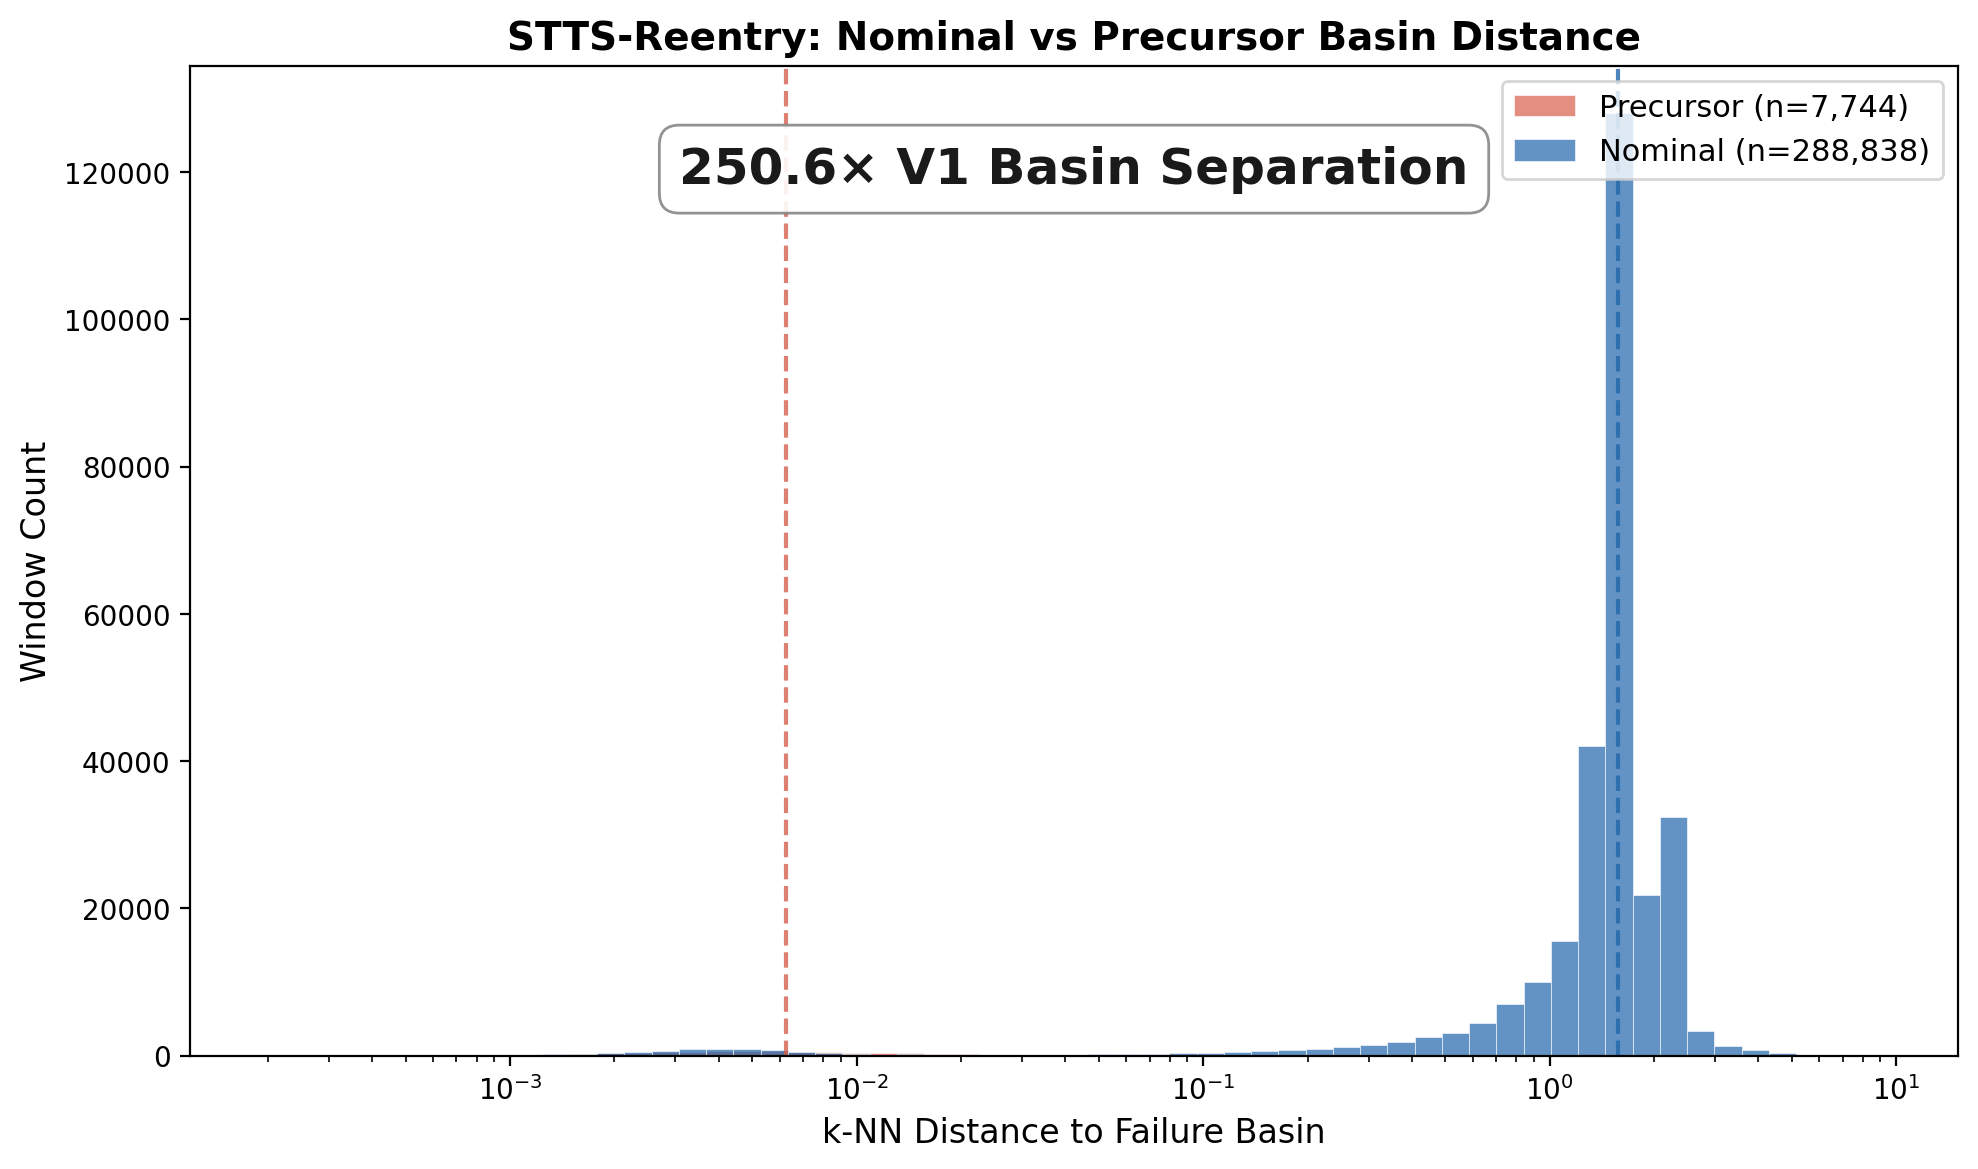
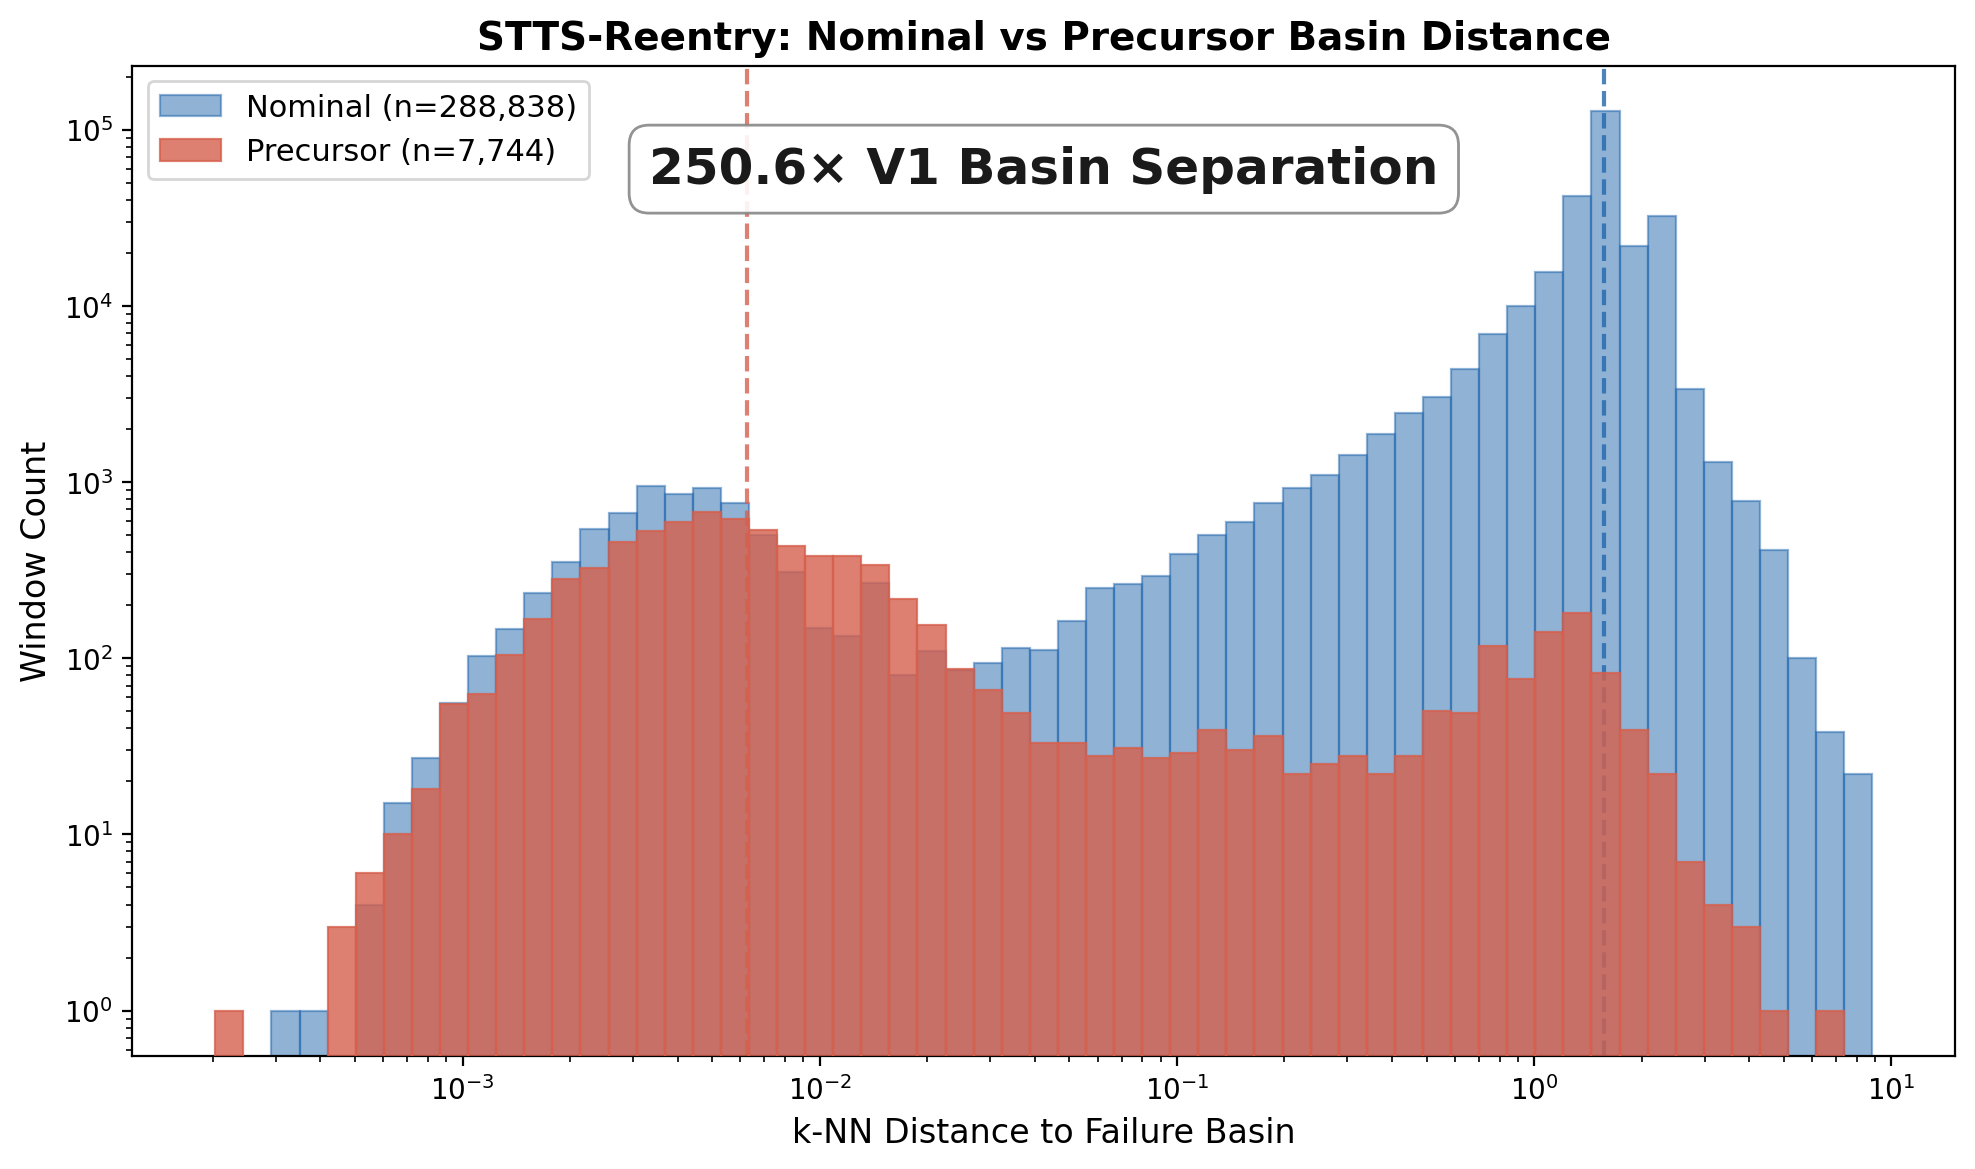
Add CARA discussion visualizations section to reentry README

diff --git a/results/reentry/plots/generate_plots.py b/results/reentry/plots/generate_plots.py
@@ -72,17 +72,22 @@ def plot_basin_separation():
         60,
     )
 
-    ax.hist(pre_d, bins=bins, alpha=0.7, color=RED_REENTRY,
-            label=f"Precursor (n={len(pre_d):,})", edgecolor="white", linewidth=0.3)
-    ax.hist(nom_d, bins=bins, alpha=0.7, color=BLUE_NOM,
-            label=f"Nominal (n={len(nom_d):,})", edgecolor="white", linewidth=0.3)
+    # Log-log axes: log y compresses the 37x count disparity between
+    # nominal (288k) and precursor (7.7k), making both peaks clearly visible.
+    ax.hist(nom_d, bins=bins, alpha=0.5, color=BLUE_NOM,
+            edgecolor=BLUE_NOM, linewidth=0.8,
+            label=f"Nominal (n={len(nom_d):,})", zorder=2)
+    ax.hist(pre_d, bins=bins, alpha=0.8, color=RED_REENTRY,
+            edgecolor=RED_REENTRY, linewidth=0.8,
+            label=f"Precursor (n={len(pre_d):,})", zorder=3)
 
     ax.set_xscale("log")
+    ax.set_yscale("log")
     ax.set_xlabel("k-NN Distance to Failure Basin", fontsize=12)
     ax.set_ylabel("Window Count", fontsize=12)
     ax.set_title("STTS-Reentry: Nominal vs Precursor Basin Distance",
                  fontsize=14, fontweight="bold")
-    ax.legend(fontsize=11, loc="upper right")
+    ax.legend(fontsize=11, loc="upper left")
 
     nom_med = np.median(nom_d)
     pre_med = np.median(pre_d)

diff --git a/results/reentry/README.md b/results/reentry/README.md
@@ -26,3 +26,19 @@ These two entries do not affect the 108 "unexpected" satellite count
 (both are in the deliberate deorbit or transitional categories based
 on periapsis), but their inclusion in the 125-satellite output warrants
 flagging for downstream consumers.
+
+## Visualizations for CARA Discussion
+
+![Basin Separation](plots/basin_separation.png)
+Log-scale histogram showing 250.6x median distance separation between nominal and precursor trajectory windows.
+
+![Anomalous Satellites](plots/anomalous_satellites.png)
+Scatter of 125 operationally flagged satellites by first excursion date and current periapsis altitude, colored by category.
+
+![SC25 Correlation](plots/sc25_correlation.png)
+Dual-axis plot of excursion onset count versus annual mean sunspot number, showing strong correlation with Solar Cycle 25.
+
+![Lead Time Distribution](plots/lead_time_distribution.png)
+Histogram of detection lead times across 78 confirmed reentry events, with mean lead time annotated.
+
+Generated by `plots/generate_plots.py` — run after any data changes.
